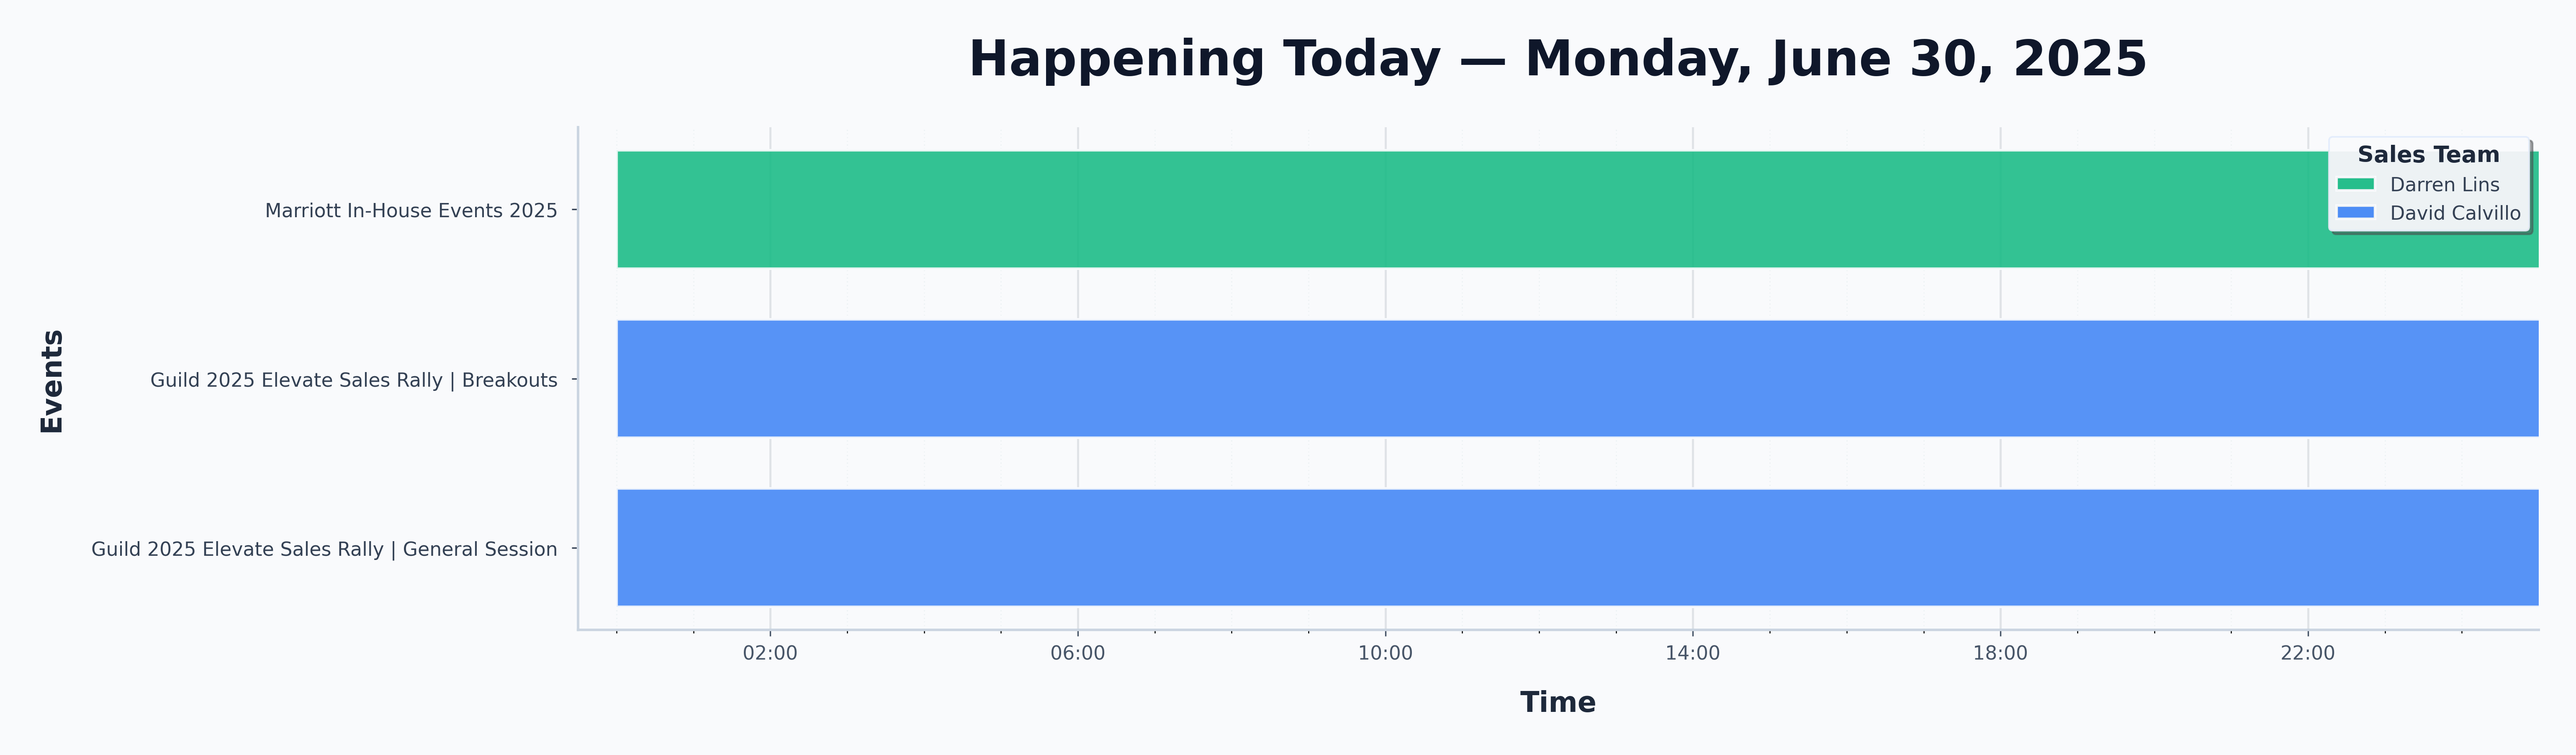
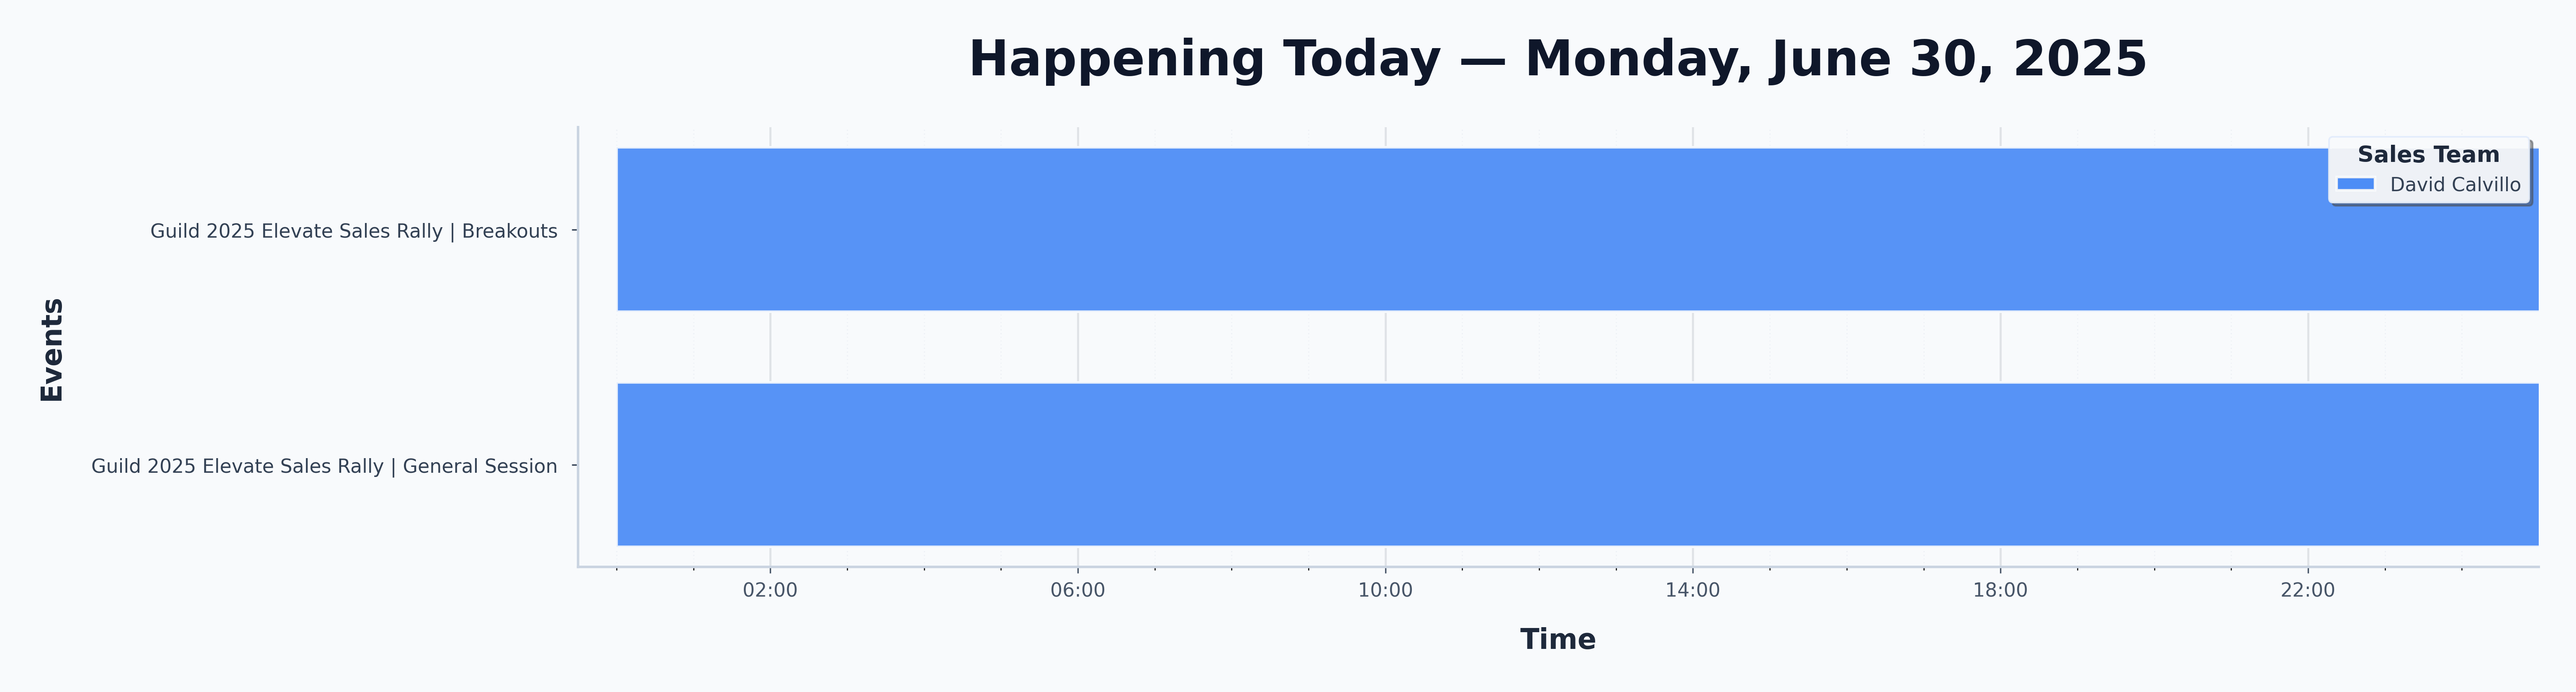
Enhanced monthly charts with day numbers & week indicators, filtered Marriott In-House Events 2025
- Updated monthly charts to show individual day numbers (1-31) instead of dates
- Added week boundary indicators with alternating backgrounds for better readability
- Implemented filtering to exclude 'Marriott In-House Events 2025' from all chart types
- Enhanced reporting to show filtered event counts by type
- Regenerated all dashboard slides with new formatting and filtering
- Maintained ICW filtering for monthly charts while keeping them in weekly/daily views

diff --git a/flex_gantt.py b/flex_gantt.py
@@ -7,8 +7,8 @@ Enhanced for dashboard kiosk system with image optimization and manifest generat
 Now supports rolling 3-month window for automatic dashboard updates.
 
 Features:
-- Automatic ICW event filtering for monthly charts (events with "ICW" in the name are excluded from monthly views)
-- Weekly and daily charts include all events including ICW for complete visibility
+- Automatic event filtering for all charts: "Marriott In-House Events 2025" events are excluded from all views
+- ICW event filtering for monthly charts only (ICW events excluded from monthly views but included in weekly/daily for complete visibility)
 - Color-coded bars by sales team member (Darren=Green, Dylan=Orange, Sarah=Pink, Eder=Purple, David=Blue)
 - Enhanced visual styling with larger titles, better fonts, and professional appearance
 - Sales team legend automatically generated
@@ -318,9 +318,11 @@ def gantt_for_month(df: pd.DataFrame, year: int, month: int, outdir: Path) -> No
     mask = (df["Event Start Date"] <= mend) & (df["Event End Date"] >= mstart)
     sub = df.loc[mask].copy()
     
-    # Filter out events containing "ICW" in the name
+    # Filter out events containing "ICW" or "Marriott In-House Events 2025" in the name
     icw_mask = ~sub["Event Name"].str.contains("ICW", case=False, na=False)
-    sub = sub.loc[icw_mask]
+    marriott_mask = ~sub["Event Name"].str.contains("Marriott In-House Events 2025", case=False, na=False)
+    combined_mask = icw_mask & marriott_mask
+    sub = sub.loc[combined_mask]
     
     if sub.empty:
         print(f"[{mname}]  No events in sheet for this month (after filtering).")
@@ -363,13 +365,30 @@ def gantt_for_month(df: pd.DataFrame, year: int, month: int, outdir: Path) -> No
     
     # Enhanced styling
     ax.set_xlim(mstart - pd.Timedelta(hours=12), mend + pd.Timedelta(hours=36))
-    ax.xaxis.set_major_locator(mdates.WeekdayLocator(byweekday=mdates.MO, interval=1))
-    ax.xaxis.set_major_formatter(mdates.DateFormatter("%b %d"))
     
-    # Modern grid styling
-    ax.grid(axis="x", linestyle="-", linewidth=1.2, alpha=0.2, color='#64748b')
-    ax.grid(axis="x", which='minor', linestyle=":", linewidth=0.8, alpha=0.15, color='#94a3b8')
+    # Use daily ticks to show day numbers
+    ax.xaxis.set_major_locator(mdates.DayLocator(interval=1))
+    ax.xaxis.set_major_formatter(mdates.DateFormatter("%d"))  # Just day numbers
+    
+    # Add week indicators with Monday markers (more prominent)
+    ax.xaxis.set_minor_locator(mdates.WeekdayLocator(byweekday=mdates.MO))
+    
+    # Modern grid styling with enhanced week indicators
+    ax.grid(axis="x", linestyle="-", linewidth=0.8, alpha=0.15, color='#94a3b8')  # Daily grid lines
+    ax.grid(axis="x", which='minor', linestyle="-", linewidth=2.0, alpha=0.4, color='#475569')  # Week boundaries
     ax.set_axisbelow(True)
+    
+    # Add subtle week boundary indicators and alternating backgrounds
+    week_dates = pd.date_range(mstart, mend, freq='W-MON')
+    for i, date in enumerate(week_dates):
+        if mstart <= date <= mend:
+            # Week boundary line
+            ax.axvline(x=date, color='#334155', linewidth=2.5, alpha=0.6, zorder=1)
+            
+            # Alternating week background (every other week gets subtle shading)
+            if i % 2 == 1:
+                week_end = min(date + pd.Timedelta(days=6, hours=23, minutes=59), mend)
+                ax.axvspan(date, week_end, color='#f1f5f9', alpha=0.3, zorder=0)
     
     # Enhanced labels and title with modern typography
     ax.set_xlabel("Date", fontsize=16, fontweight='600', color='#1e293b', 
@@ -384,8 +403,8 @@ def gantt_for_month(df: pd.DataFrame, year: int, month: int, outdir: Path) -> No
     title_text.set_bbox(dict(boxstyle="round,pad=0.5", facecolor='#f1f5f9', 
                             alpha=0.8, edgecolor='none'))
     
-    # Enhanced x-axis formatting
-    plt.xticks(rotation=45, fontsize=12, color='#475569', fontweight='500')
+    # Enhanced x-axis formatting - no rotation needed for day numbers
+    plt.xticks(rotation=0, fontsize=11, color='#475569', fontweight='500')
     
     # Better y-axis formatting for event names
     ax.tick_params(axis='y', labelsize=11, colors='#334155', pad=8)
@@ -444,10 +463,15 @@ def gantt_for_month(df: pd.DataFrame, year: int, month: int, outdir: Path) -> No
     # Report filtering results
     total_events = len(df.loc[(df["Event Start Date"] <= mend) & (df["Event End Date"] >= mstart)])
     filtered_events = len(sub)
-    icw_filtered = total_events - filtered_events
+    
+    # Calculate individual filter counts
+    all_month_events = df.loc[(df["Event Start Date"] <= mend) & (df["Event End Date"] >= mstart)].copy()
+    icw_filtered = len(all_month_events[all_month_events["Event Name"].str.contains("ICW", case=False, na=False)])
+    marriott_filtered = len(all_month_events[all_month_events["Event Name"].str.contains("Marriott In-House Events 2025", case=False, na=False)])
+    total_filtered = total_events - filtered_events
     
     print(f"Saved {outfile}")
-    print(f"  Events shown: {filtered_events}, ICW events filtered: {icw_filtered}")
+    print(f"  Events shown: {filtered_events}, Filtered: {total_filtered} (ICW: {icw_filtered}, Marriott In-House: {marriott_filtered})")
 
 
 def gantt_for_week(df: pd.DataFrame, outdir: Path) -> None:
@@ -461,8 +485,10 @@ def gantt_for_week(df: pd.DataFrame, outdir: Path) -> None:
     mask = (df["Event Start Date"] <= week_end) & (df["Event End Date"] >= week_start)
     sub = df.loc[mask].copy()
     
-    # Note: ICW events are included in weekly charts for complete visibility
-    # Monthly charts still exclude ICW events
+    # Filter out Marriott In-House Events 2025 (but keep ICW events for complete visibility)
+    # Monthly charts exclude both ICW and Marriott In-House events
+    marriott_mask = ~sub["Event Name"].str.contains("Marriott In-House Events 2025", case=False, na=False)
+    sub = sub.loc[marriott_mask]
     
     if sub.empty:
         print(f"[This Week]  No events happening this week.")
@@ -590,8 +616,12 @@ def gantt_for_week(df: pd.DataFrame, outdir: Path) -> None:
     total_events = len(df.loc[(df["Event Start Date"] <= week_end) & (df["Event End Date"] >= week_start)])
     filtered_events = len(sub)
     
+    # Calculate Marriott In-House events filtered
+    all_week_events = df.loc[(df["Event Start Date"] <= week_end) & (df["Event End Date"] >= week_start)].copy()
+    marriott_filtered = len(all_week_events[all_week_events["Event Name"].str.contains("Marriott In-House Events 2025", case=False, na=False)])
+    
     print(f"Saved {outfile}")
-    print(f"  Weekly events shown: {filtered_events} (includes ICW events)")
+    print(f"  Weekly events shown: {filtered_events} (includes ICW events, excludes {marriott_filtered} Marriott In-House events)")
     print(f"  Week period: {week_display}")
 
 
@@ -606,8 +636,10 @@ def gantt_for_day(df: pd.DataFrame, outdir: Path) -> None:
     mask = (df["Event Start Date"] <= day_end) & (df["Event End Date"] >= day_start)
     sub = df.loc[mask].copy()
     
-    # Note: ICW events are included in daily charts for complete visibility
-    # Monthly charts still exclude ICW events
+    # Filter out Marriott In-House Events 2025 (but keep ICW events for complete visibility)
+    # Monthly charts exclude both ICW and Marriott In-House events
+    marriott_mask = ~sub["Event Name"].str.contains("Marriott In-House Events 2025", case=False, na=False)
+    sub = sub.loc[marriott_mask]
     
     if sub.empty:
         print(f"[Today]  No events happening today.")
@@ -736,8 +768,12 @@ def gantt_for_day(df: pd.DataFrame, outdir: Path) -> None:
     total_events = len(df.loc[(df["Event Start Date"] <= day_end) & (df["Event End Date"] >= day_start)])
     filtered_events = len(sub)
     
+    # Calculate Marriott In-House events filtered
+    all_day_events = df.loc[(df["Event Start Date"] <= day_end) & (df["Event End Date"] >= day_start)].copy()
+    marriott_filtered = len(all_day_events[all_day_events["Event Name"].str.contains("Marriott In-House Events 2025", case=False, na=False)])
+    
     print(f"Saved {outfile}")
-    print(f"  Daily events shown: {filtered_events} (includes ICW events)")
+    print(f"  Daily events shown: {filtered_events} (includes ICW events, excludes {marriott_filtered} Marriott In-House events)")
     print(f"  Day: {day_display}")
 
 
